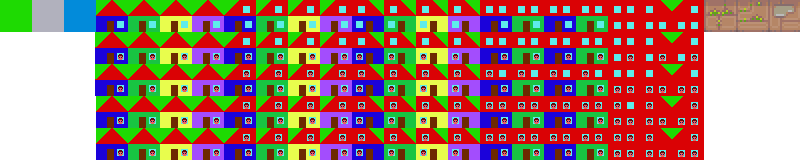
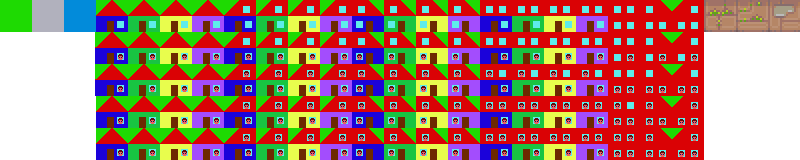
Walk around and exit

diff --git a/src/GameMap.js b/src/GameMap.js
@@ -1,4 +1,4 @@
-function GameMap(game){
+function GameMap(game,model){
 	
 	
 	var map;
@@ -11,6 +11,10 @@ function GameMap(game){
 	var showLayersKey;
 	var mapLayerKey;
 	
+	this.getMap = function(){
+		return map;
+	};
+	
 	this.init = function(){
 	    //  Creates a blank tilemap
 		map = game.add.tilemap('Level1');
@@ -21,6 +25,7 @@ function GameMap(game){
 		mapLayer = map.createLayer('level');
 		//  Resize the world
 		mapLayer.resizeWorld();
+		model.setMapLayer(mapLayer);
 
 		//  Create our tile selector at the top of the screen
 		this.createTileSelector();
@@ -41,34 +46,23 @@ function GameMap(game){
 	
 	this.updateMarker = function() {
 
-		marker.x = mapLayer.getTileX(game.input.activePointer.worldX) * 32;
-		marker.y = mapLayer.getTileY(game.input.activePointer.worldY) * 32;
+		var tileX = mapLayer.getTileX(game.input.activePointer.worldX);
+		var tileY = mapLayer.getTileY(game.input.activePointer.worldY);
+		marker.x = tileX * 32;
+		marker.y = tileY * 32;
 
 		if (game.input.mousePointer.isDown)
 		{
+			model.getHouses().setHouse(tileX,tileY,model.getColor());
+/*
 			map.putTile(currentTile, mapLayer.getTileX(marker.x), mapLayer.getTileY(marker.y), mapLayer);
+			*/
 			// map.fill(currentTile, mapLayer.getTileX(marker.x), mapLayer.getTileY(marker.y), 4, 4, mapLayer);
 		}
 
 	}
 	
 	this.createTileSelector = function() {
-
-		//  Our tile selection window
-		var tileSelector = game.add.group();
-
-		var tileSelectorBackground = game.make.graphics();
-		tileSelectorBackground.beginFill(0x000000, 0.5);
-		tileSelectorBackground.drawRect(0, 0, 800, 34);
-		tileSelectorBackground.endFill();
-
-		tileSelector.add(tileSelectorBackground);
-
-		var tileStrip = tileSelector.create(1, 1, 'ground_1x1');
-		tileStrip.inputEnabled = true;
-		tileStrip.events.onInputDown.add(this.pickTile, this);
-
-		tileSelector.fixedToCamera = true;
 
 		//  Our painting marker
 		marker = game.add.graphics();

diff --git a/src/houses.js b/src/houses.js
@@ -1,0 +1,69 @@
+function Houses(model){
+	
+	var isMyColor = function(tile,color){
+		var index = tile.index - 1;
+		if(index< 3 || index > 20){
+			return false;
+		}
+		index = index % 25 - 3;
+		if(index % 4 === color -1){
+			return true;
+		}
+		return false;
+	};
+	
+	var calculateHouseShape = function(x,y,color){
+		var map = model.getGameMap().getMap();
+		var left = 0;
+		var right = 0;
+		var top = 0;
+		var down = 0;
+		var neighbours = 0;
+
+		if(x-1>=0){
+			left = map.getTile(x-1,y);
+			if(isMyColor(left,color)===true){
+				neighbours += 1;
+			}
+		}
+		if(x+1<map.width){
+			right = map.getTile(x+1,y);
+			if(isMyColor(right,color)===true){
+				neighbours += 2;
+			}
+		}
+		if(y-1>=0){
+			top = map.getTile(x,y-1);
+			if(isMyColor(top,color)===true){
+				neighbours += 4;
+			}
+		}
+		if(y-1<=map.height){
+			down = map.getTile(x,y+1);
+			if(isMyColor(down,color)===true){
+				neighbours += 8;
+			}
+		}
+		var houseTable = [0,8,4,12,12,12,12,12,16,17,18,16,16,16,16,16];
+		
+		var newHouse = houseTable[neighbours];
+		return newHouse+4;
+	}
+	
+	this.setHouse = function(x,y,color){
+		// Sets a house in the given color
+		var map = model.getGameMap().getMap();
+		if(x >= map.width){
+			return;
+		}
+		if(y >= map.height){
+			return;
+		}
+		var mapLayer = model.getMapLayer();
+		var currentTile = calculateHouseShape(x,y,color);
+		if(currentTile<20){
+			currentTile += color-1;
+		}
+		map.putTile(currentTile, x, y, mapLayer);
+	}
+}

diff --git a/src/update.js b/src/update.js
@@ -3,7 +3,12 @@ function Update(game, model, tool) {
 	var controller = new Controller(model);
 	var down = false;
 	var won = false;
-
+	
+	var checkSpriteEntersHouse = function(sprite){
+		if(sprite.y === 200){
+			sprite.data.enter=1;
+		}
+	}
 
 	return function() {
 		// Function called 60 times per second
@@ -11,9 +16,42 @@ function Update(game, model, tool) {
 		var graphics = model.getGraphics();
 		graphics.clear();
 
+		
 		// Find out where the mouse is
         var mx = game.input.activePointer.worldX;
         var my = game.input.activePointer.worldY;
 		var oRectData = null;
+
+		var userSelection = model.getSelection();
+		
+		userSelection.setColorSelectedFrame();
+		
+		// Sprite
+		var sprites = model.getSprites();
+		for (var spriteNo=0;spriteNo<sprites.length;spriteNo++){
+			var sprite = sprites[spriteNo];
+			if(sprite.data.upwards !== true){
+				sprite.y++;
+			}else{
+				sprite.y--;
+			}
+			if(!isNaN(sprite.data.enter)) {
+				sprite.x += sprite.data.enter;
+				if (sprite.x>490 || sprite.x<430){
+					sprite.visible = false;
+					model.removeSprite(sprite);
+				}
+			}
+
+			if(sprite.y < 10 && sprite.data.upwards === true) {
+				sprite.data.upwards = false;
+			}
+			if(sprite.y > 600 && sprite.data.upwards !== true) {
+				sprite.data.upwards = true;
+			}
+			checkSpriteEntersHouse(sprite);
+		}
 	};
+	
+	
 }

diff --git a/src/model.js b/src/model.js
@@ -9,8 +9,42 @@ function Model() {
 	var oGraphics = null;
 	var gameMap = null;
 	var level = 0;
+	var color = 1;
+	var marker = null;
+	var selection = null;
+	var houses = new Houses(this);
+	var mapLayer = null;
+	var sprites = [];
 	
 	// Model
+	this.getHouses = function(){
+		return houses;
+	}
+	this.setColor = function(colorIn){
+		color = colorIn;
+	};
+	this.getColor = function(){
+		return color;
+	};
+	this.setMapLayer = function(mapLayerIn){
+		mapLayer = mapLayerIn;
+	};
+	this.getMapLayer = function(){
+		return mapLayer;
+	};
+	this.setMarker = function(markerIn){
+		marker = markerIn;
+	};
+	this.getMarker = function(){
+		return marker;
+	};
+	this.setSelection = function(selectionIn){
+		selection = selectionIn;
+	};
+	this.getSelection = function(){
+		return selection;
+	};
+	
 	
 	this.setGameMap = function(gameMapIn){
 		gameMap = gameMapIn;
@@ -41,4 +75,16 @@ function Model() {
 		this.setRects(this.createRects());
 		this.setGoal();
 	};
+	this.addSprite = function(sprite){
+		sprites.push(sprite);
+	}
+	this.removeSprite = function(sprite){
+		sprites = sprites.filter(function(current){
+			return (current.data.no !== sprite.data.no)
+		});
+	}
+	this.getSprites = function(){
+		return sprites;
+	}
+	
 };

diff --git a/src/create.js b/src/create.js
@@ -15,13 +15,38 @@ function Create(game, model, tool) {
 		
 		game.stage.backgroundColor = c.color.backgound;
 		var lines = [];
-		game.add.button(1000,100,'reset', function() {
-			model.resetLevel();
-		});
 		game.add.text(470,16,"Small town", { fill: '#ffffff',fontSize : 50 });
 
 		gameMap.init();
 		
-	};
+		// Buttons
+		game.add.text(1030,30,"Select Color", { fill: '#ffffff',fontSize : 32 });
+		game.add.button(1000,100,'col1', function() {
+			model.setColor(1);
+		});
+		game.add.button(1070,100,'col2', function() {
+			model.setColor(2);
+		});
+		game.add.button(1140,100,'col3', function() {
+			model.setColor(3);
+		});
+		game.add.button(1210,100,'col4', function() {
+			model.setColor(4);
+		});
+		
+		// User selection
+		var userSelection = new UserSelection(game,model);
+		model.setSelection(userSelection);
+		userSelection.init();
+		
+		// Sprite
+		sprite = game.add.sprite(464 , 100, 'maennchen');
+		sprite.data.no=1;
+		model.addSprite(sprite);
+		sprite = game.add.sprite(464 , 400, 'maennchen');
+		sprite.data.no=2;
+		model.addSprite(sprite);
 
+
+	}
 }

diff --git a/src/UserSelection.js b/src/UserSelection.js
@@ -1,0 +1,28 @@
+function UserSelection(game,model){
+
+	this.init = function(){
+		initColorSelectionFrame();
+	}
+
+	var initColorSelectionFrame = function(){
+		//  Our painting marker
+		marker = game.add.graphics();
+		marker.lineStyle(2, 0xe0e0e0, 1);
+		marker.drawRect(0, 0, 38, 38);
+		marker.lineStyle(2, 0x000000, 1);
+		marker.drawRect(2, 2, 34, 34);
+		model.setMarker(marker);
+	}
+
+	
+	this.setColorSelectedFrame = function(){
+		var marker = model.getMarker();
+		if(marker===null){
+			return;
+		}
+		var color = model.getColor();
+		marker.x = 1000 + (color - 1) * 70;
+		marker.y = 100;
+	};
+
+}

diff --git a/index.html b/index.html
@@ -17,6 +17,8 @@
         <script type="text/javascript" src="src/render.js"></script>
         <script type="text/javascript" src="src/loader.js"></script>
         <script type="text/javascript" src="src/GameMap.js"></script>		
+        <script type="text/javascript" src="src/UserSelection.js"></script>		
+        <script type="text/javascript" src="src/houses.js"></script>		
 		<!-- Init needs to be at the end, because it references the other scripts -->
         <script type="text/javascript" src="src/init.js"></script>
 

diff --git a/src/init.js b/src/init.js
@@ -11,7 +11,7 @@ function init() {
 		events : {}
 	};
 	var model = new Model();
-	var gameMap = new GameMap(game);
+	var gameMap = new GameMap(game,model);
 	model.setGameMap(gameMap);
 
 	// Creates a new 'main' state that will contain the game
@@ -24,7 +24,7 @@ function init() {
 		update : Update(game, model, tool),
 		render : Render(game, model, tool),
 	};
-
+	
 	// Add and start the 'main' state to start the game
 	game.state.add('main', gameState.main);
 	game.state.start('main');

diff --git a/src/loader.js b/src/loader.js
@@ -5,6 +5,12 @@ function Loader(game) {
 
 	return function() {
 
+		game.load.image('col1','pic/blue.png');
+		game.load.image('col2','pic/green.png');
+		game.load.image('col3','pic/yellow.png');
+		game.load.image('col4','pic/purple.png');
+		
+		game.load.spritesheet('maennchen','pic/maennchen.png',32,32,4);
 	
 /*		
 		game.load.image('horizontal','sprite/brushHozizontal.png');

diff --git a/src/constants.js b/src/constants.js
@@ -21,8 +21,8 @@ var c = {
 		y : 1280
 	},
 	grid : {
-		x : 50,
-		y : 50
+		x : 30,
+		y : 20
 	}
 
 };
